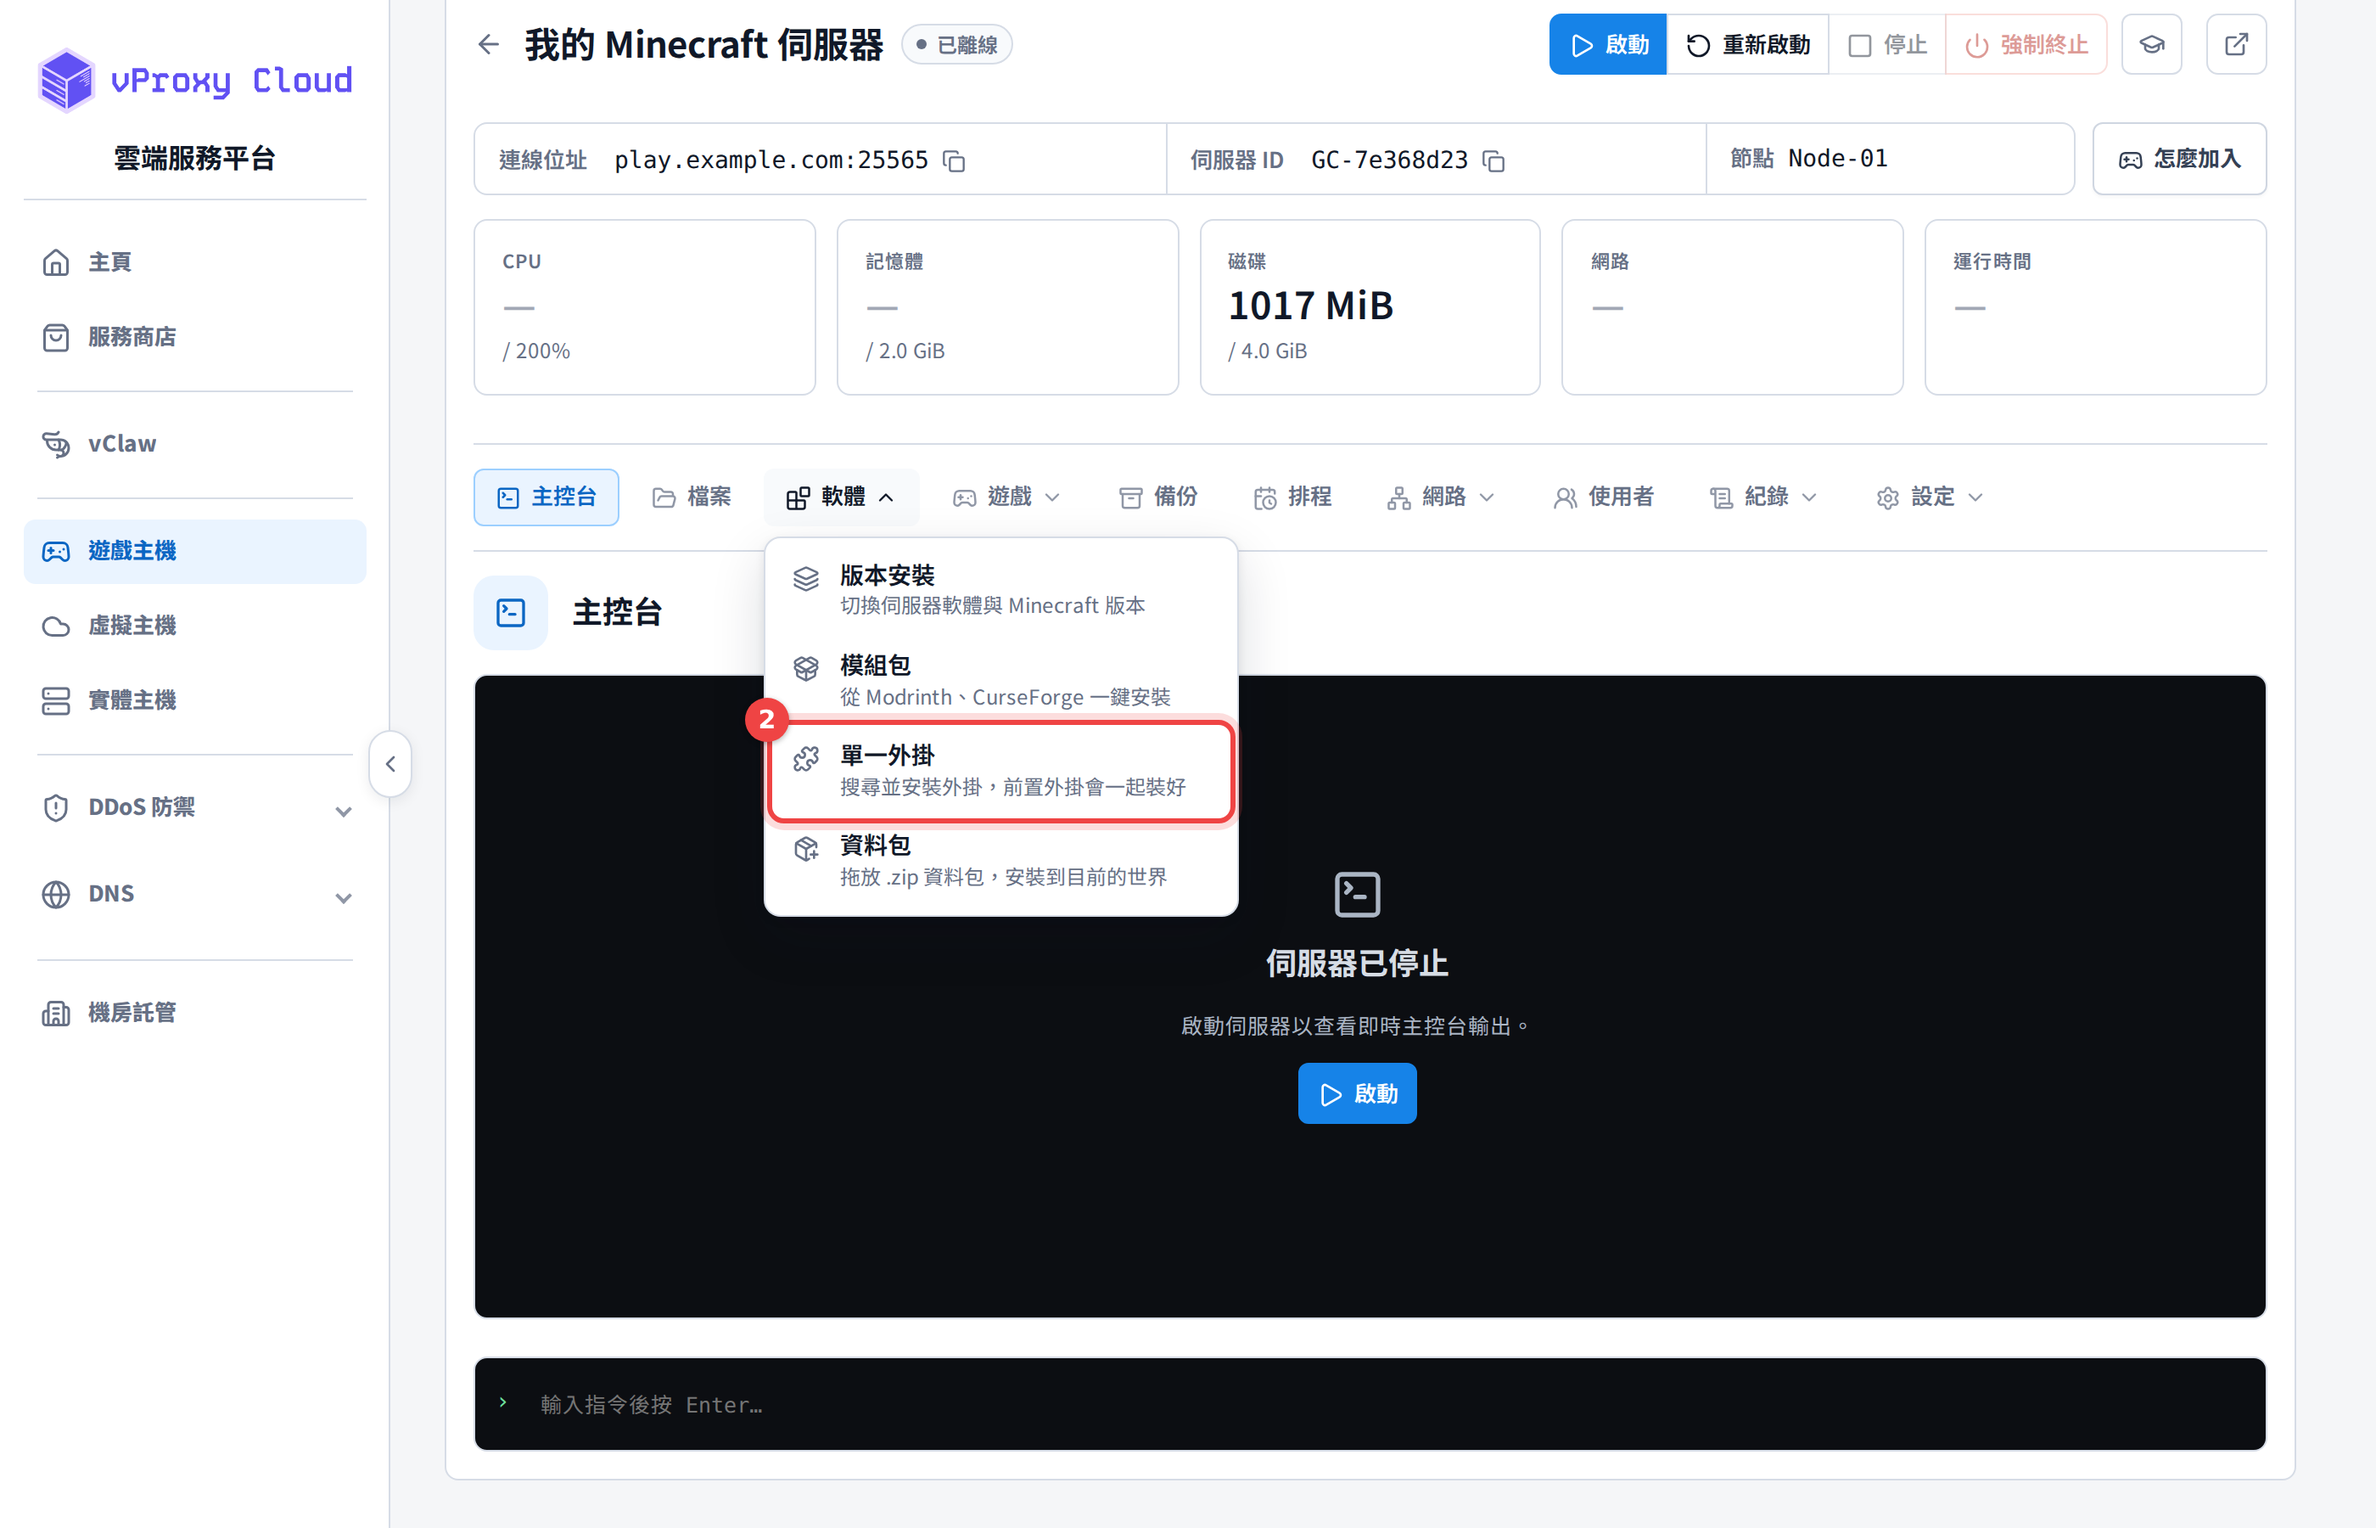
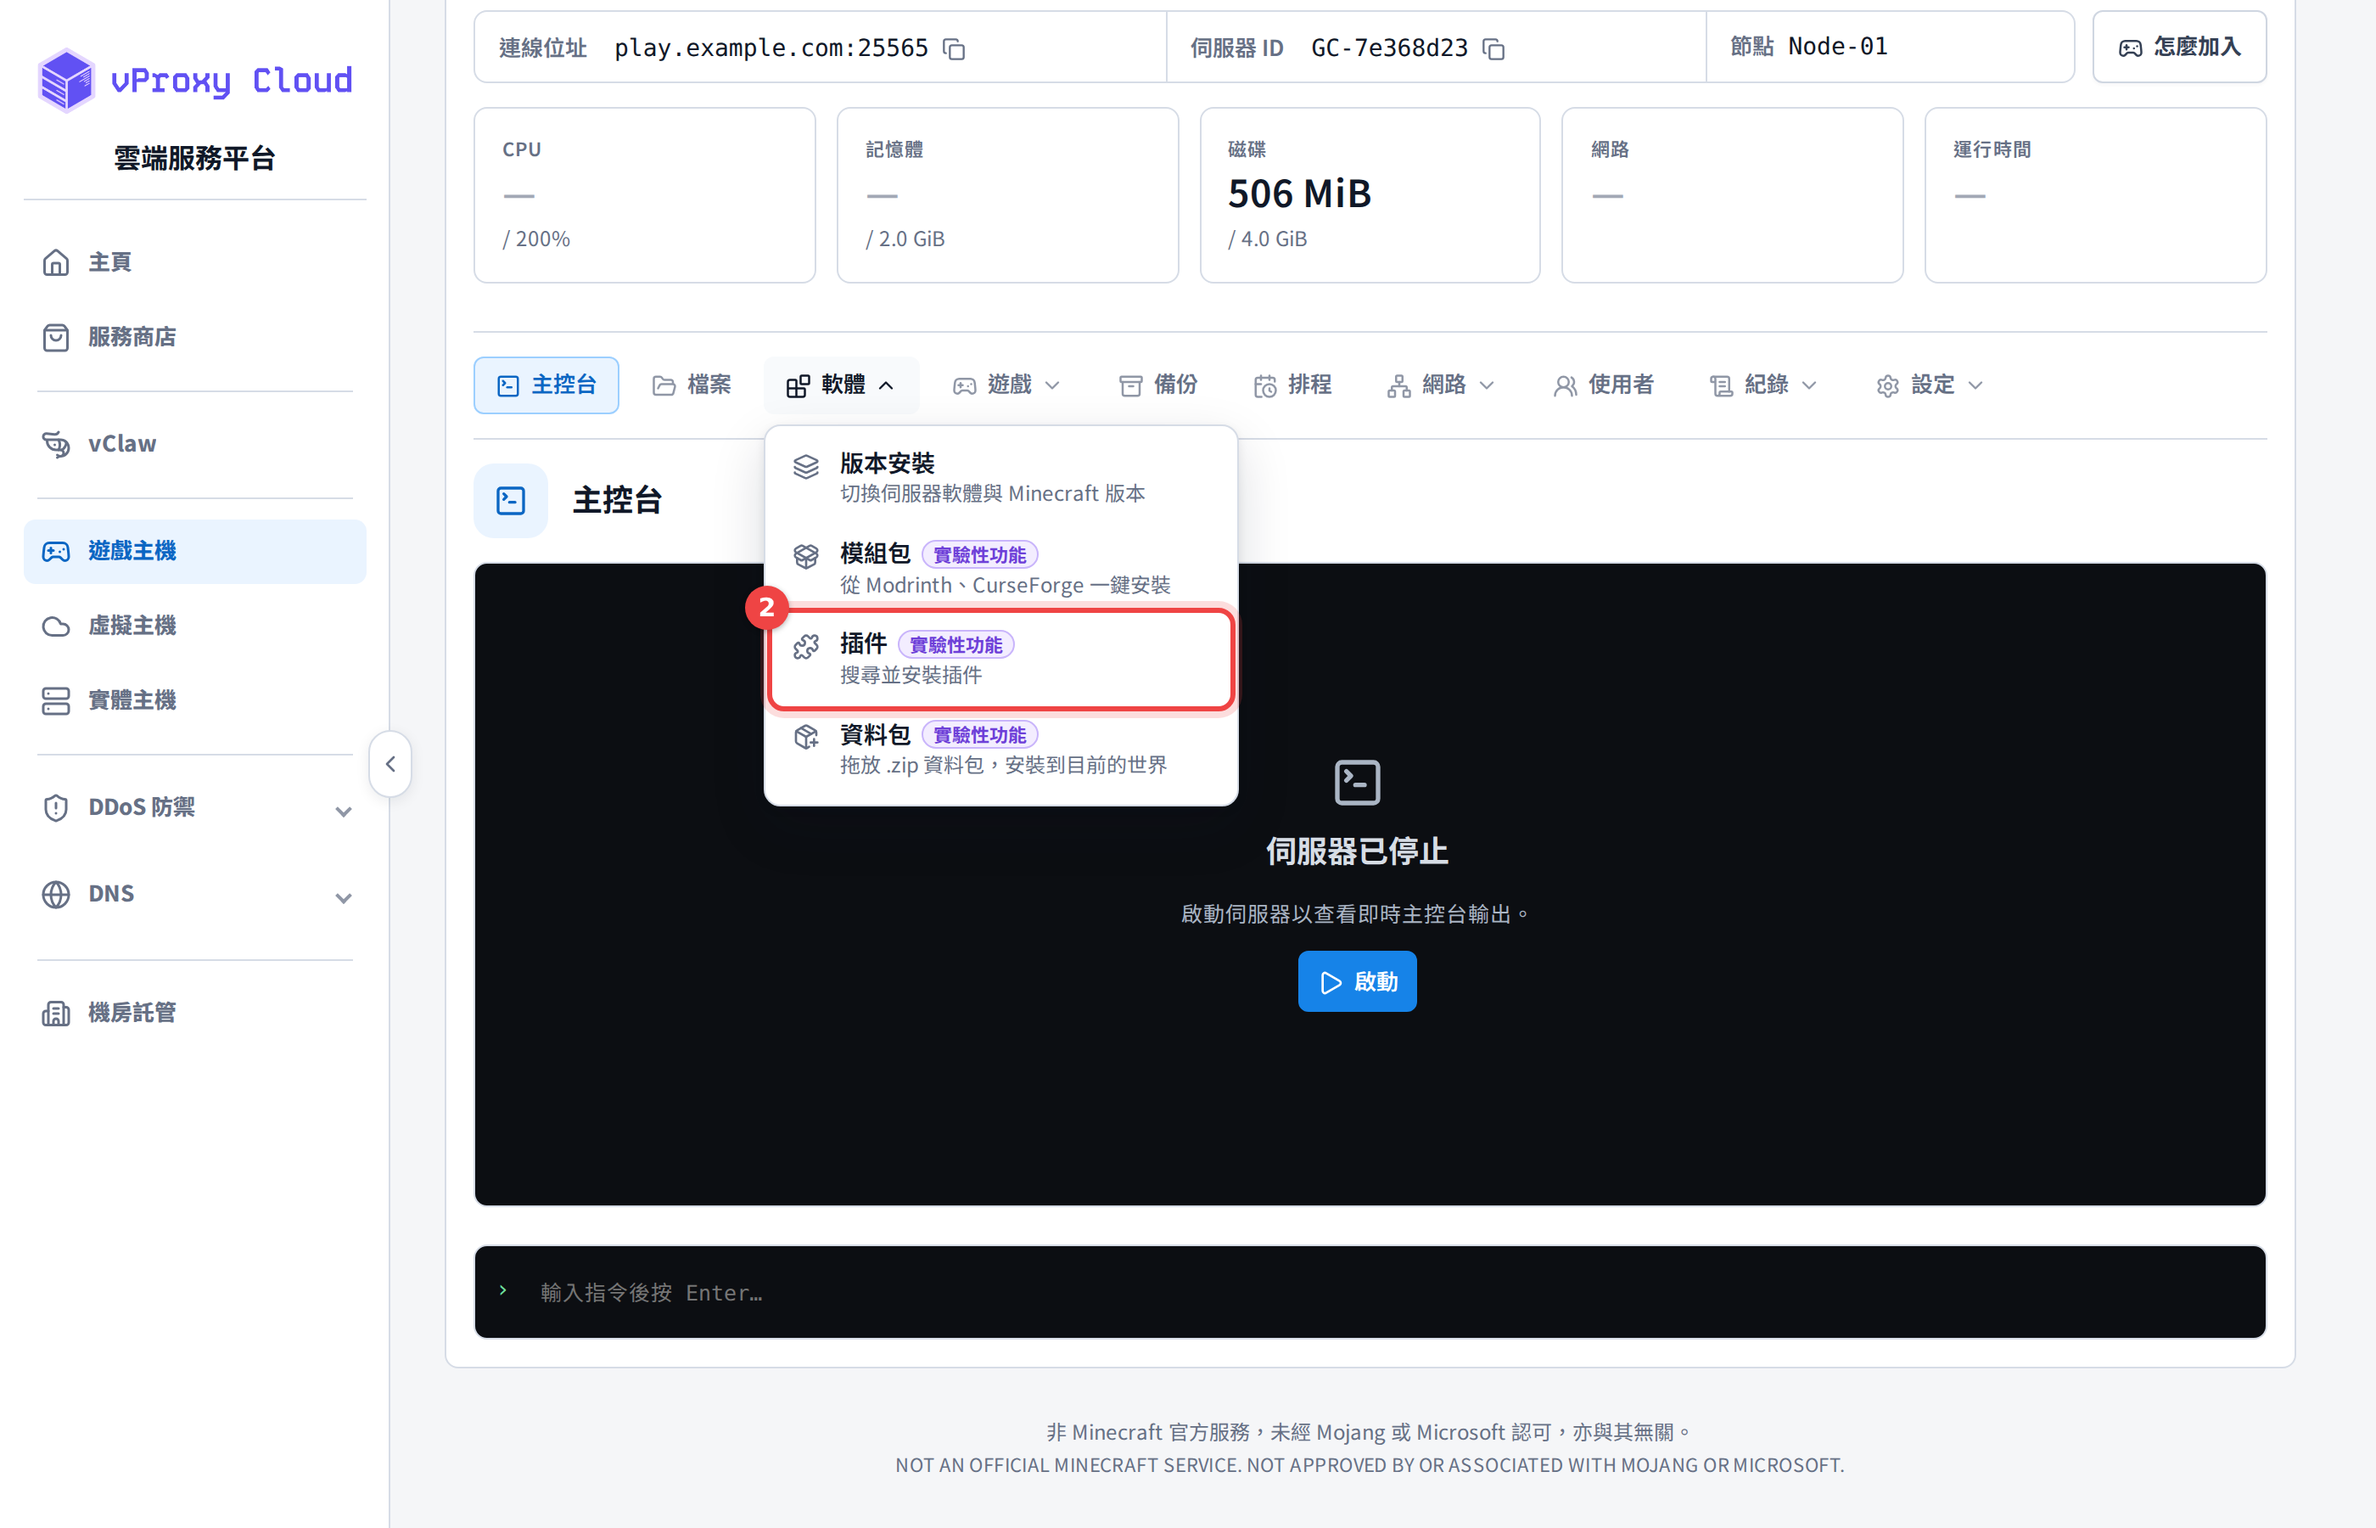
同步面板改名：插件教學重拍（15 步）、版本安裝截圖隱藏 egg 摘要，並依實測更新 WorldGuard 頁
- 面板選單改為「插件」「模組」，插件教學改名「安裝插件」並用新介面重拍（新增「實驗性功能」提醒步驟）
- neoforge 第 5 步、mods-manual 第 5、6 步重拍，隱藏版本安裝摘要中的內部用詞
- 其餘教學的說明文字同步為「軟體 → 插件」；總覽、選擇指南與 README 一併更新
- WorldGuard：依 Paper 1.21.4 主控台實測，-w 要緊接在子指令後面（rg flag -w world …），rg define 只能在遊戲內；新增 WorldEdit 7.4.3 以後需要 Java 25 的提醒（Java 21 請裝 7.4.2）
- 手動上傳插件頁補上 UnsupportedClassVersionError 說明；插件頁預覽圖重產

diff --git a/README.md b/README.md
@@ -32,7 +32,7 @@ git status --porcelain | awk '{print $2}' | grep '^public/.*\.png$' | xargs -P 6
 
 ## 逐步圖片教學（遊戲主機各功能頁）
 
-`content/docs/gamecloud/` 底下 14 個功能頁（主控台、檔案、版本安裝、單一插件、模組包、世界上傳與下載、玩家管理、備份、排程、使用者、啟動設定、伺服器設定、網路、告警）是「每一步一張圖＋一句說明」的格式。
+`content/docs/gamecloud/` 底下 14 個功能頁（主控台、檔案、版本安裝、安裝插件、模組包、世界上傳與下載、玩家管理、備份、排程、使用者、啟動設定、伺服器設定、網路、告警）是「每一步一張圖＋一句說明」的格式。
 
 - 圖片放在 `public/images/tutorials/<教學代號>/NN.webp`（**無損 WebP**，像素與原本的 PNG 完全相同，檔案約小 60%）。
 - 頁面中 `{/* tutorial:start */}` 與 `{/* tutorial:end */}` 之間的步驟是程式產生的，**不要手改**；標記外的簡介與提示框可以自由編輯。
